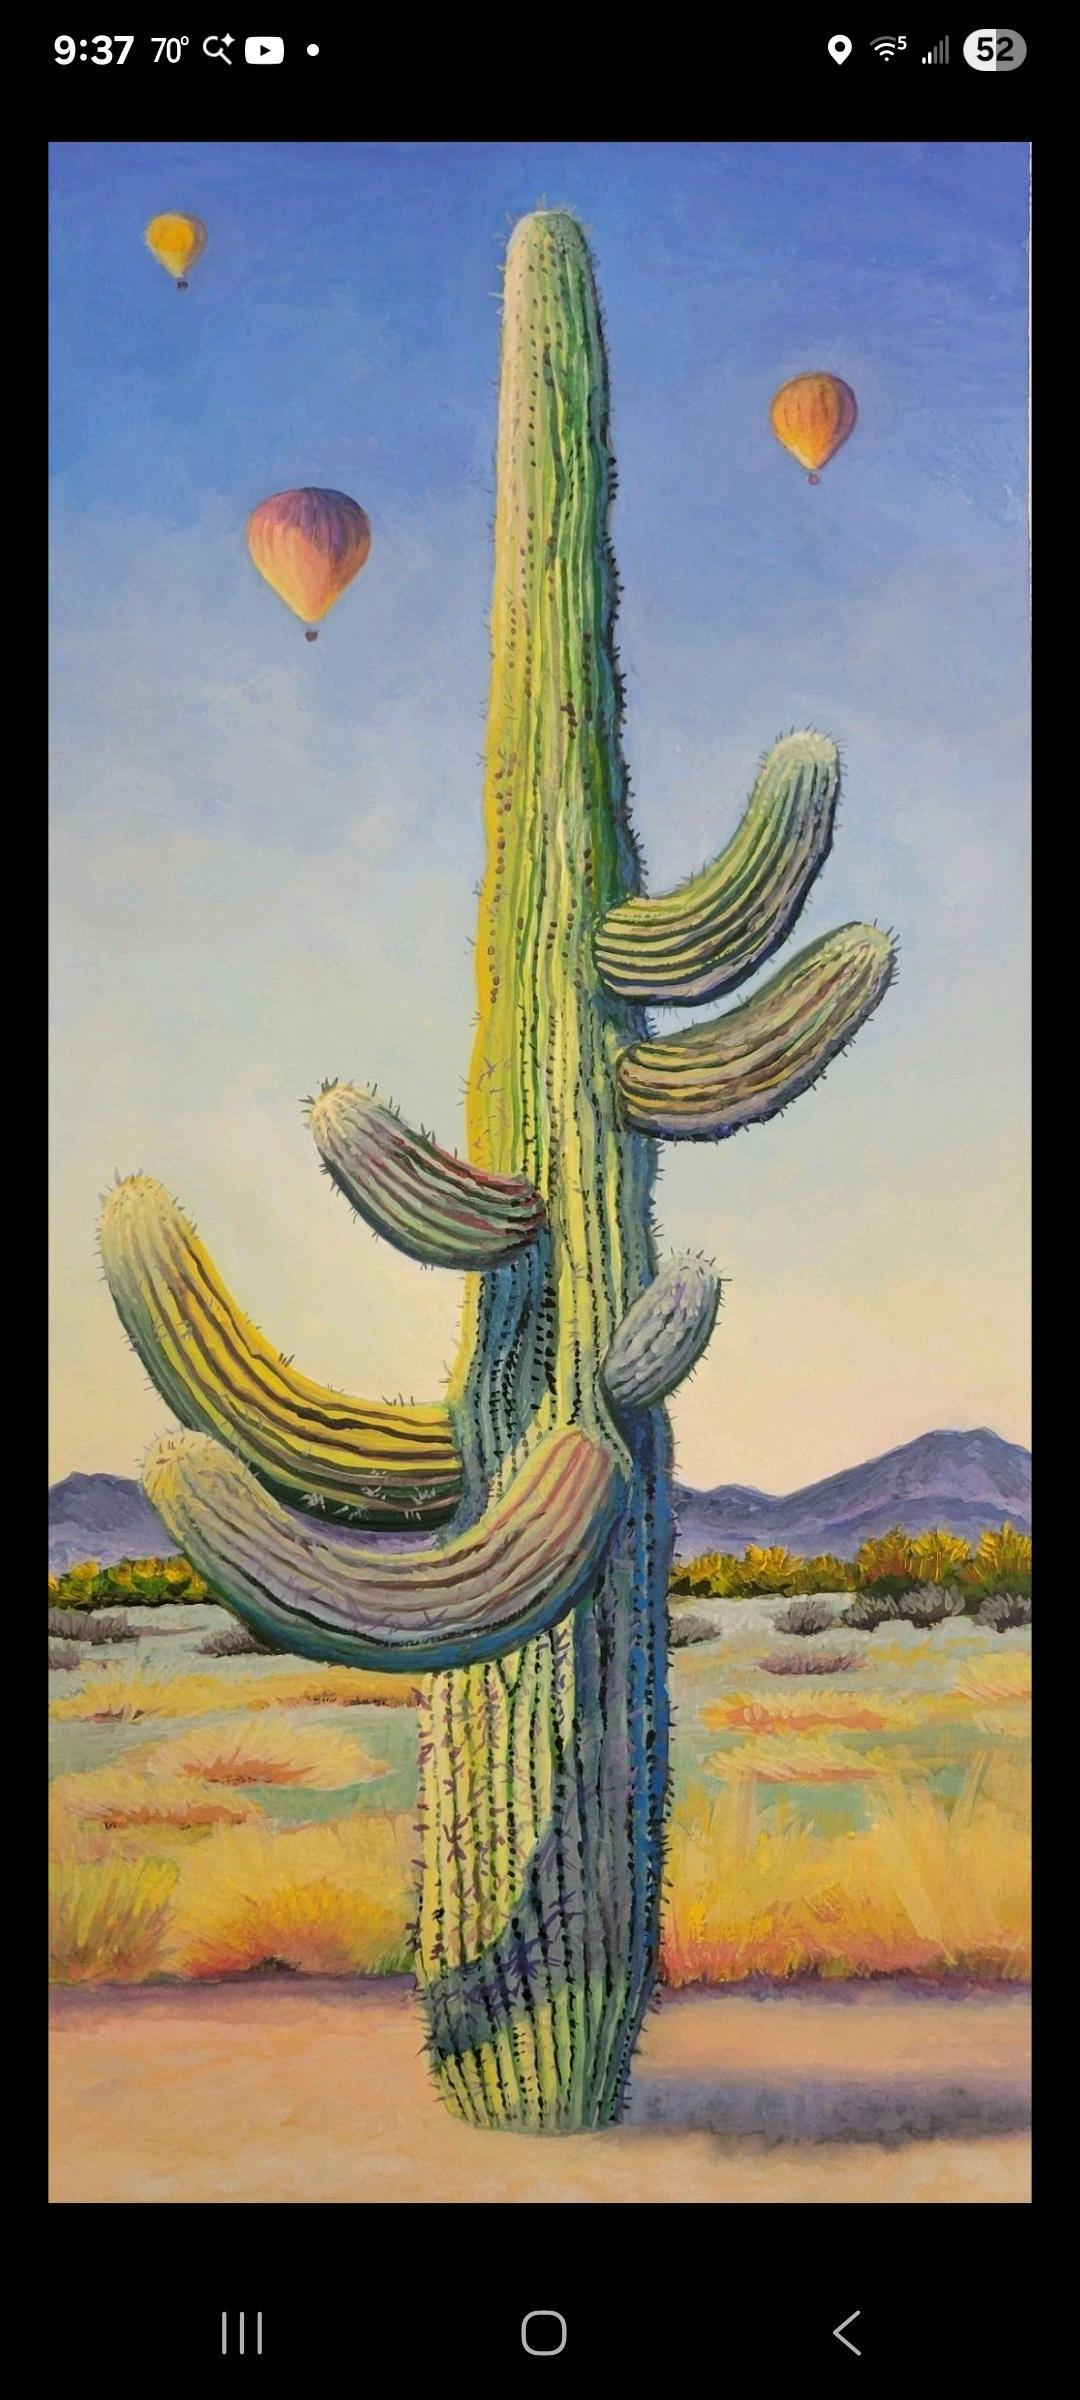
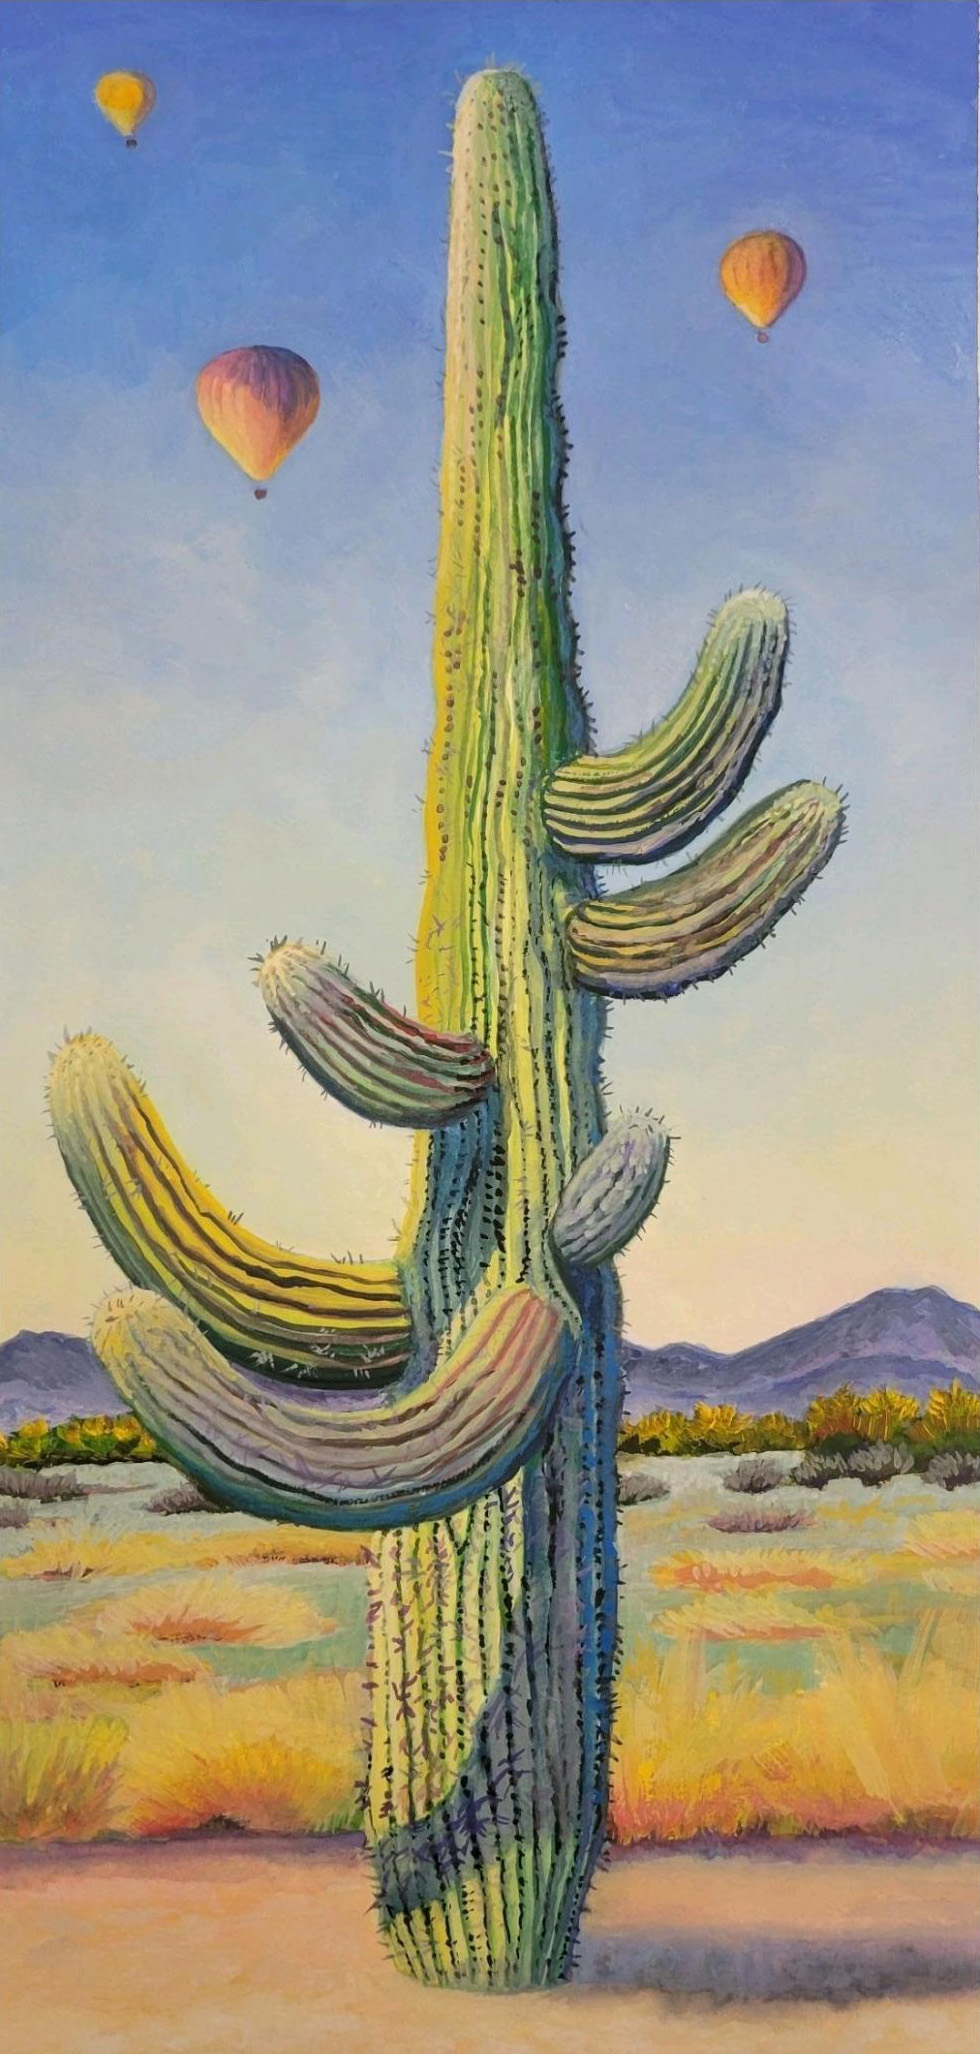
Fix funnel artwork cropping and $0 original purchase bug, update Hot Air image
- Never crop artwork being sold: switched all artwork images to object-contain
- Block $0 originals from cart (price TBD = not for sale yet)
- Updated Hot Air_1.jpg with corrected image

diff --git a/src/components/funnels/IntimateJournalTemplate.tsx b/src/components/funnels/IntimateJournalTemplate.tsx
@@ -52,7 +52,7 @@ export default function IntimateJournalTemplate({ funnel, product, images, varia
   const printVariants = variants.filter((v) => v.variant_type === 'canvas_print' || v.variant_type === 'framed_canvas_print')
   const canvasPrints = printVariants.filter((v) => v.variant_type === 'canvas_print')
   const framedPrints = printVariants.filter((v) => v.variant_type === 'framed_canvas_print')
-  const originalSold = originalVariant && originalVariant.inventory_count <= 0
+  const originalSold = originalVariant && (originalVariant.inventory_count <= 0 || originalVariant.price <= 0)
 
   const fullImageRef = useRef<HTMLDivElement>(null)
   const { scrollYProgress: imageProgress } = useScroll({ target: fullImageRef, offset: ['start end', 'end start'] })
@@ -96,17 +96,17 @@ export default function IntimateJournalTemplate({ funnel, product, images, varia
               initial={{ opacity: 0, scale: 0.95 }}
               animate={{ opacity: 1, scale: 1 }}
               transition={{ duration: 1, ease }}
-              className="lg:col-span-3 relative h-[60vh] lg:h-screen"
+              className="lg:col-span-3 relative h-[60vh] lg:h-screen bg-cream flex items-center justify-center"
             >
               <Image
                 src={heroImage.url}
                 alt={heroImage.alt_text || product.title}
                 fill
-                className="object-cover"
+                className="object-contain"
                 priority
                 sizes="(min-width: 1024px) 60vw, 100vw"
               />
-              <div className="absolute inset-0 bg-gradient-to-r from-transparent to-cream/30 lg:block hidden" />
+              <div className="absolute inset-0 bg-gradient-to-r from-transparent to-cream/30 lg:block hidden pointer-events-none" />
             </motion.div>
           )}
 
@@ -191,13 +191,11 @@ export default function IntimateJournalTemplate({ funnel, product, images, varia
             </div>
             {detailImage && (
               <ImageSlide delay={0.2} className="hidden md:block">
-                <div className="relative aspect-[3/4] rounded-sm overflow-hidden shadow-lg">
-                  <Image
+                <div className="relative rounded-sm overflow-hidden shadow-lg bg-[#F8F4EE] flex items-center justify-center">
+                  <img
                     src={detailImage.url}
                     alt="Detail"
-                    fill
-                    className="object-cover"
-                    sizes="(min-width: 768px) 250px, 0px"
+                    className="w-full h-auto max-h-[60vh] object-contain"
                   />
                 </div>
                 <p className="font-hand text-sm text-charcoal/40 mt-3 text-center -rotate-1">detail</p>
@@ -213,14 +211,12 @@ export default function IntimateJournalTemplate({ funnel, product, images, varia
           {/* Full-width artwork image with parallax */}
           {heroImage && (
             <Reveal>
-              <div ref={fullImageRef} className="relative w-full aspect-[16/9] md:aspect-[21/9] rounded-sm overflow-hidden shadow-2xl mb-16">
-                <motion.div style={{ y: imageY }} className="absolute inset-[-30px]">
-                  <Image
+              <div ref={fullImageRef} className="relative w-full rounded-sm overflow-hidden shadow-2xl mb-16 bg-cream flex items-center justify-center">
+                <motion.div style={{ y: imageY }} className="relative w-full">
+                  <img
                     src={heroImage.url}
                     alt={product.title}
-                    fill
-                    className="object-cover"
-                    sizes="100vw"
+                    className="w-full h-auto max-h-[70vh] object-contain"
                   />
                 </motion.div>
               </div>
@@ -249,13 +245,11 @@ export default function IntimateJournalTemplate({ funnel, product, images, varia
           <div className="grid md:grid-cols-2 gap-8 mt-16 max-w-4xl mx-auto">
             {images.slice(1, 3).map((img, i) => (
               <ImageSlide key={img.id} delay={i * 0.1}>
-                <div className="relative aspect-square rounded-sm overflow-hidden shadow-lg">
-                  <Image
+                <div className="relative rounded-sm overflow-hidden shadow-lg bg-cream flex items-center justify-center">
+                  <img
                     src={img.url}
                     alt={img.alt_text || 'Artwork detail'}
-                    fill
-                    className="object-cover"
-                    sizes="(min-width: 768px) 45vw, 100vw"
+                    className="w-full h-auto max-h-[60vh] object-contain"
                   />
                 </div>
                 <p className="font-hand text-sm text-charcoal/40 mt-3 text-center -rotate-1">

diff --git a/src/components/funnels/BoldShowcaseTemplate.tsx b/src/components/funnels/BoldShowcaseTemplate.tsx
@@ -150,7 +150,7 @@ export default function BoldShowcaseTemplate({ funnel, product, images, variants
   const printVariants = variants.filter((v) => v.variant_type === 'canvas_print' || v.variant_type === 'framed_canvas_print')
   const canvasPrints = printVariants.filter((v) => v.variant_type === 'canvas_print')
   const framedPrints = printVariants.filter((v) => v.variant_type === 'framed_canvas_print')
-  const originalSold = originalVariant && originalVariant.inventory_count <= 0
+  const originalSold = originalVariant && (originalVariant.inventory_count <= 0 || originalVariant.price <= 0)
 
   const offerRef = useRef<HTMLElement>(null)
   const scrollToOffer = () => offerRef.current?.scrollIntoView({ behavior: 'smooth' })
@@ -372,13 +372,11 @@ export default function BoldShowcaseTemplate({ funnel, product, images, variants
             {/* Detail image with gold frame on container border */}
             {detailImage && (
               <Pop delay={0.1}>
-                <div className="relative aspect-square md:aspect-auto md:h-full group border-[3px] border-gold/70 overflow-hidden">
-                  <Image
+                <div className="relative md:h-full group border-[3px] border-gold/70 overflow-hidden bg-charcoal flex items-center justify-center min-h-[500px]">
+                  <img
                     src={detailImage.url}
                     alt="Artwork detail"
-                    fill
-                    className="object-cover transition-transform duration-700 group-hover:scale-[1.02]"
-                    sizes="(min-width: 768px) 50vw, 100vw"
+                    className="w-full h-auto max-h-[70vh] object-contain transition-transform duration-700 group-hover:scale-[1.02]"
                   />
                 </div>
               </Pop>
@@ -437,12 +435,12 @@ export default function BoldShowcaseTemplate({ funnel, product, images, variants
                   <div className="absolute -inset-4 shadow-[8px_12px_40px_rgba(0,0,0,0.25),_-2px_-2px_20px_rgba(255,255,255,0.3)] bg-charcoal/5 rounded-sm" />
                   {/* Gold frame flush on container edge */}
                   <div className="relative border-[4px] border-gold/60 overflow-hidden">
-                    <div className="relative w-[280px] h-[350px] sm:w-[360px] sm:h-[450px] md:w-[440px] md:h-[550px]">
+                    <div className="relative w-[280px] h-[350px] sm:w-[360px] sm:h-[450px] md:w-[440px] md:h-[550px] bg-white flex items-center justify-center">
                       <Image
                         src={heroImage.url}
                         alt={product.title}
                         fill
-                        className="object-cover"
+                        className="object-contain"
                         sizes="440px"
                       />
                     </div>
@@ -474,14 +472,12 @@ export default function BoldShowcaseTemplate({ funnel, product, images, variants
                 <motion.div
                   whileHover={{ scale: 1.02 }}
                   transition={spring}
-                  className="relative aspect-[4/5] rounded-sm overflow-hidden shadow-2xl"
+                  className="relative rounded-sm overflow-hidden shadow-2xl bg-cream flex items-center justify-center"
                 >
-                  <Image
+                  <img
                     src={heroImage.url}
                     alt={product.title}
-                    fill
-                    className="object-cover"
-                    sizes="(min-width: 1024px) 50vw, 100vw"
+                    className="w-full h-auto max-h-[70vh] object-contain"
                   />
                 </motion.div>
               </Pop>

diff --git a/src/components/funnels/GallerySpotlightTemplate.tsx b/src/components/funnels/GallerySpotlightTemplate.tsx
@@ -40,7 +40,7 @@ export default function GallerySpotlightTemplate({ funnel, product, images, vari
   const printVariants = variants.filter((v) => v.variant_type === 'canvas_print' || v.variant_type === 'framed_canvas_print')
   const canvasPrints = printVariants.filter((v) => v.variant_type === 'canvas_print')
   const framedPrints = printVariants.filter((v) => v.variant_type === 'framed_canvas_print')
-  const originalSold = originalVariant && originalVariant.inventory_count <= 0
+  const originalSold = originalVariant && (originalVariant.inventory_count <= 0 || originalVariant.price <= 0)
 
   const offerRef = useRef<HTMLElement>(null)
   const scrollToOffer = () => offerRef.current?.scrollIntoView({ behavior: 'smooth' })
@@ -163,13 +163,11 @@ export default function GallerySpotlightTemplate({ funnel, product, images, vari
           </div>
           {detailImage && (
             <FadeUp delay={0.3} className="hidden md:block">
-              <div className="relative aspect-[3/4] rounded-sm overflow-hidden opacity-60">
-                <Image
+              <div className="relative rounded-sm overflow-hidden opacity-60 bg-[#1A1A1A] flex items-center justify-center">
+                <img
                   src={detailImage.url}
                   alt="Detail"
-                  fill
-                  className="object-cover"
-                  sizes="(min-width: 768px) 33vw, 0px"
+                  className="w-full h-auto max-h-[70vh] object-contain"
                 />
               </div>
             </FadeUp>
@@ -182,13 +180,11 @@ export default function GallerySpotlightTemplate({ funnel, product, images, vari
         <div className="max-w-5xl mx-auto px-6 grid md:grid-cols-3 gap-12 items-center">
           {detailImage && (
             <FadeUp className="hidden md:block">
-              <div className="relative aspect-square rounded-sm overflow-hidden shadow-xl">
-                <Image
+              <div className="relative rounded-sm overflow-hidden shadow-xl bg-cream flex items-center justify-center">
+                <img
                   src={detailImage.url}
                   alt="Artwork detail"
-                  fill
-                  className="object-cover"
-                  sizes="(min-width: 768px) 33vw, 0px"
+                  className="w-full h-auto max-h-[70vh] object-contain"
                 />
               </div>
             </FadeUp>
@@ -221,13 +217,11 @@ export default function GallerySpotlightTemplate({ funnel, product, images, vari
           <div className="grid md:grid-cols-2 gap-12 lg:gap-20 items-start">
             {heroImage && (
               <FadeUp>
-                <div className="relative aspect-[4/5] rounded-sm overflow-hidden shadow-2xl">
-                  <Image
+                <div className="relative rounded-sm overflow-hidden shadow-2xl bg-[#F5F0E8] flex items-center justify-center">
+                  <img
                     src={heroImage.url}
                     alt={product.title}
-                    fill
-                    className="object-cover"
-                    sizes="(min-width: 768px) 50vw, 100vw"
+                    className="w-full h-auto max-h-[70vh] object-contain"
                   />
                 </div>
               </FadeUp>
